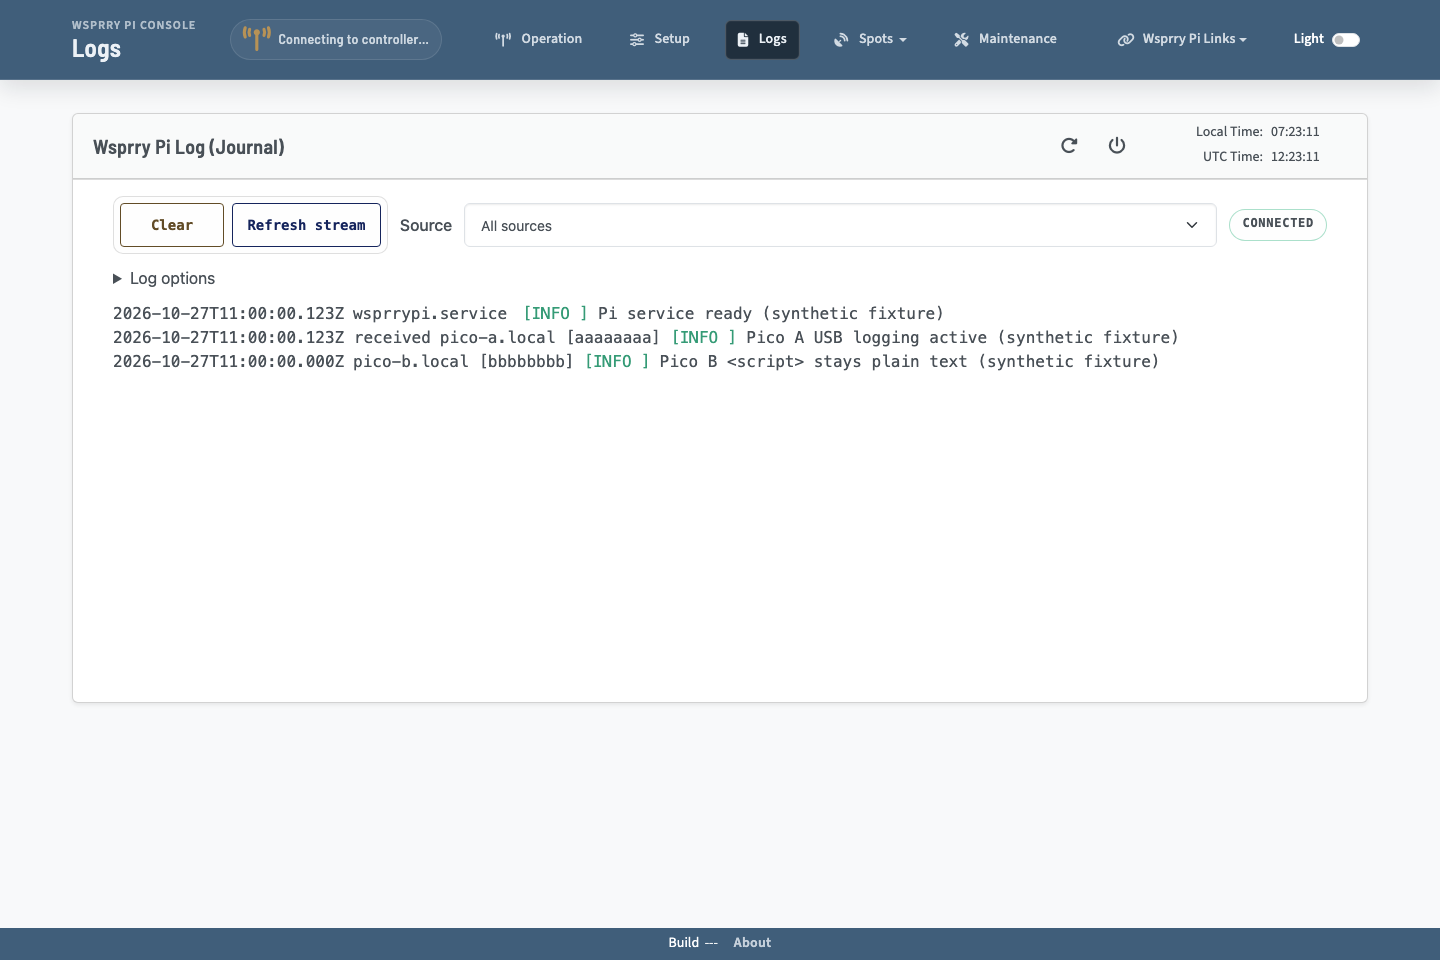
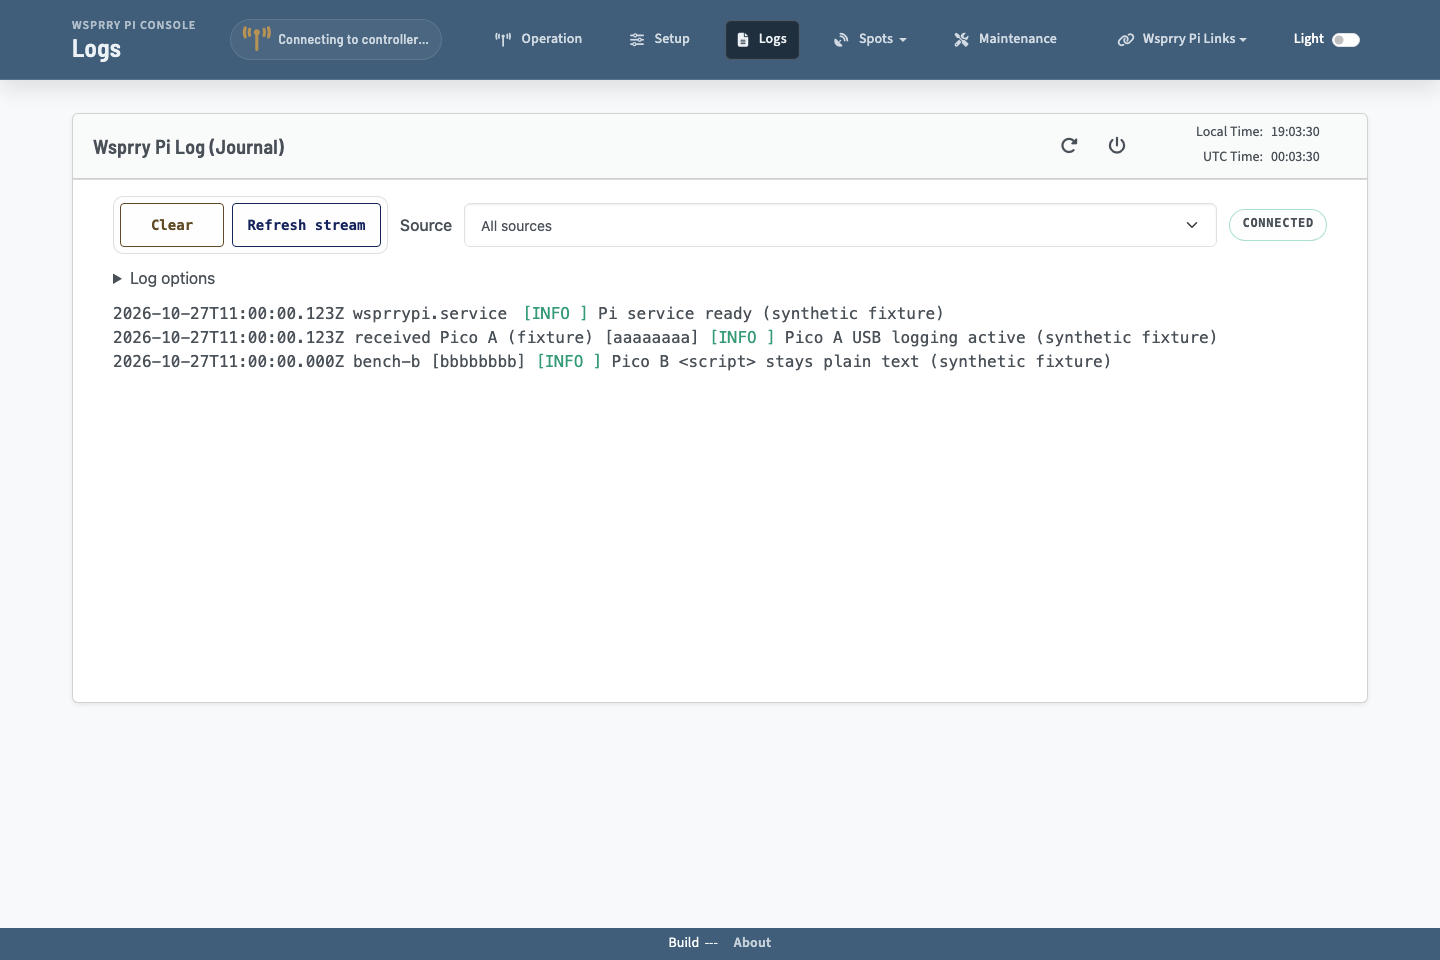
docs: explain Fleet names in Pico log displays

Changed region(s): [[0.25, 0.3438, 0.8438, 0.4062]]

diff --git a/docs/User_Interface/Logs/index.md b/docs/User_Interface/Logs/index.md
@@ -7,7 +7,7 @@ The log page auto-refreshes as your WsprryPi server generates logs. It accesses 
 
 Choose **Source** beside **Clear** and **Refresh stream** to show **All sources**, **Local Pi** or one Pico. Attached Picos appear before collection is enabled. Each Pico is identified by its saved name or USB serial and stable device ID. Selecting a source only filters the journal; save a USB device in Fleet before enabling its collection. The example above uses sample records to show these labels.
 
-Pico records keep their own hostname, boot and event sequence. When the Pico has UTC, the displayed timestamp is its event time. Otherwise, **received** marks the Pi's receipt time. A host receipt time does not establish the Pico's clock accuracy.
+The source selector and Pico log prefixes use the saved Fleet name when available, with the reported hostname as a fallback. Displayed names omit a terminal `.local`; log prefixes retain the bracketed short device ID. Refresh sources to read a renamed Fleet profile. Journal records and exports keep the full reported hostname, boot and event sequence. When the Pico has UTC, the displayed timestamp is its event time. Otherwise, **received** marks the Pi's receipt time. A host receipt time does not establish the Pico's clock accuracy.
 
 Open **Log options** to filter severity, **Pause view** or **Export visible logs**. Pause stops this browser's live view; **Resume view** continues from its journal cursor. Export saves the normalized records retained by this view as a JSON-lines file, including origin metadata. Clear removes the displayed records without deleting the system journal. Source and severity selections have separate resume cursors.
 
